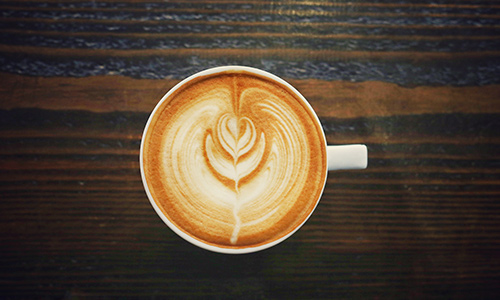
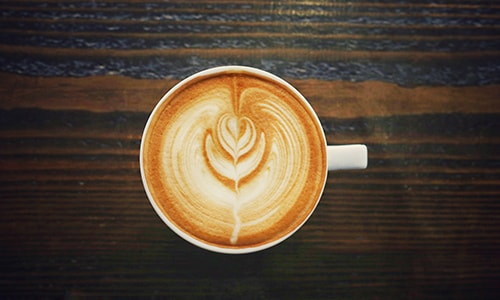
compress images

diff --git a/virtual_barrista.html b/virtual_barrista.html
@@ -42,7 +42,7 @@
                 </div>
                 <button id="foam-btn">Add Milk Foam</button>
                 <button id="clear-btn">Clear My Drink</button>
-                <button>Coming soon: water, chocolate, ice cream, ice, coffee...</button>
+                <button id="comingsoon">Coming soon: water, chocolate, ice cream, ice, coffee, expanding cup size...</button>
             </div>
         </main>
         <footer>

diff --git a/css/coffee.css b/css/coffee.css
@@ -191,6 +191,11 @@ canvas {
     -moz-box-shadow: 2px 2px 1px 1px rgba(0,0,0,0.68);
     box-shadow: 2px 2px 1px 1px rgba(0,0,0,0.68);
 }
+#virtual-barrista #comingsoon {
+    background:  #ffcccc;
+    height: 5em;
+    width: 20em;
+}
 footer {
     background: white;
     border-top: 2px solid black;
